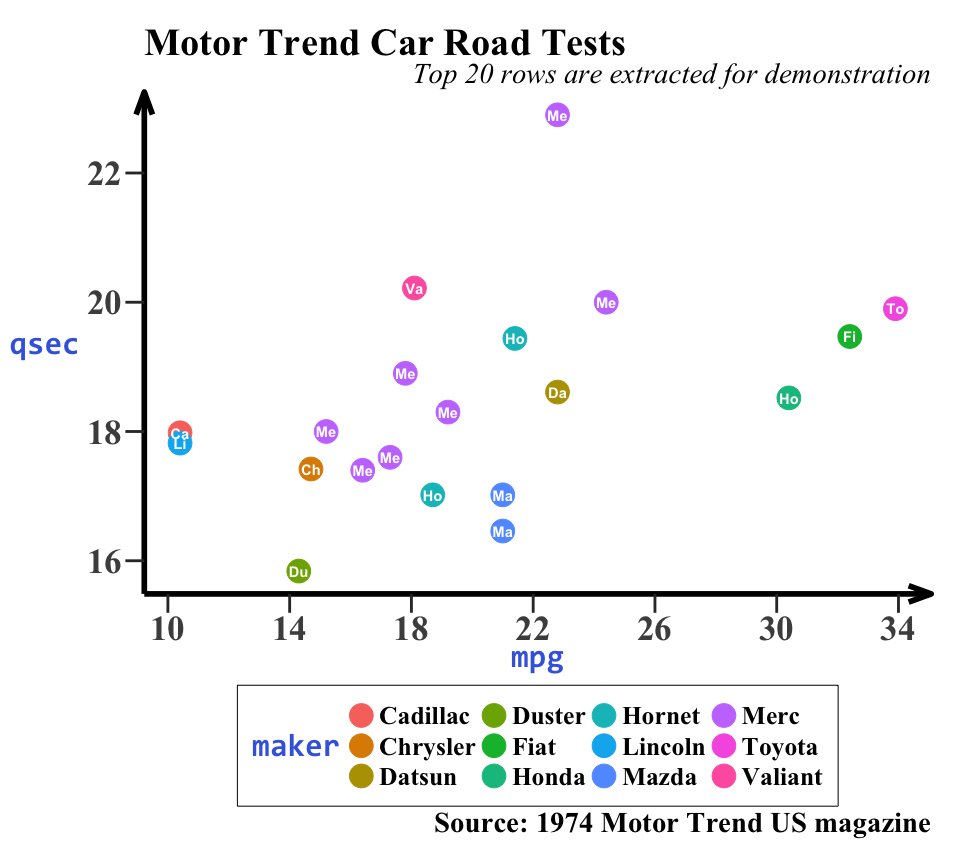
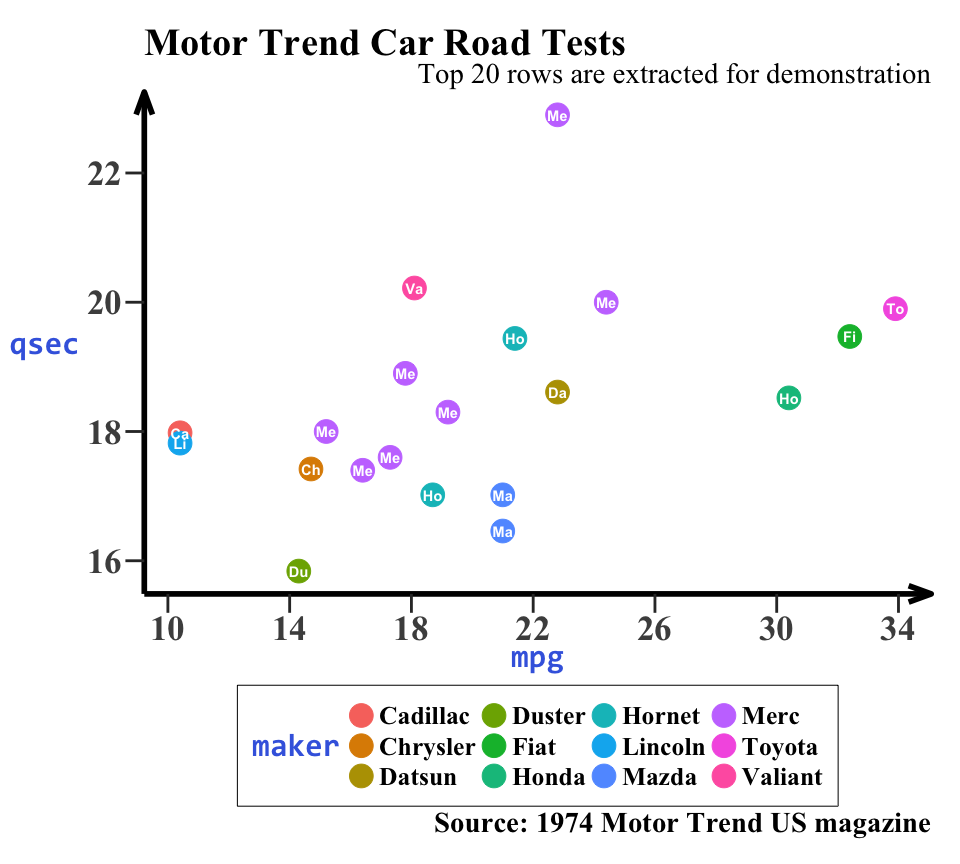
fix error message (too low threshold)

Changed region(s): [[0.4375, 0.0625, 0.9688, 0.0938]]

diff --git a/README.md b/README.md
@@ -101,15 +101,15 @@ gg +
        lgd.box.bg(c="black"),
        lgd.key(fill="white"),
        lgd.position("bottom"),
-       lgd.title(fmly="Consolas", c="royalblue"),         # equally-spaced font
        lgd.txt(z=rel(.8)),
+       lgd.title(fmly="Consolas", c="royalblue"),         # equally-spaced font
        axs.title(fmly="Consolas", c="royalblue"),         # colorize axis titles
        axs.title.y(angle=0, vjust=.5),                    # rotate and centerize y axis label
        axs.txt(z=rel(1.1)),
        axs.line(arrow=arrow(type="open", angle=20), z=2), # 
        axs.tick(z=1),                                     # tick or ticks? It doesn't matter
-       axis.tick.len(.5, "cm"),
-       plt.subttl(f="italic", hjust=1),
+       axs.tick.len(.5, "cm"),
+       plt.subttl(f="plain", hjust=1),
        plt.margin(.3, .3, .3, .1, "inch")                # adjust margins
   )
 ```
@@ -118,24 +118,24 @@ gg +
 
 ``` r
 # If using ggplot2::theme():
-# gg +
-#  theme(text = element_text(face="bold", size=24, family="Times New Roman"), 
-#        panel.background = element_rect(fill="white"),
-#        legend.box.margin = margin(.2, .2, .2, .2,"cm"), 
-#        legend.box.background = element_rect(colour="black"), 
-#        legend.key = element_rect(fill="white"), 
-#        legend.position = ("bottom"), 
-#        legend.title = element_text(family="Consolas", colour="royalblue"), 
-#        legend.text = element_text(size=rel(.8)), 
-#        axis.title = element_text(family="Consolas", colour="royalblue"), 
-#        axis.title.y = element_text(angle=0, vjust=0.5), 
-#        axis.text = element_text(size=rel(1.1)), 
-#        axis.line = element_line(arrow=arrow(type="open", angle=20), size=2), 
-#        axis.ticks = element_line(size=1), 
-#        axis.ticks.length = unit(.5,"cm"), 
-#        plot.subtitle = element_text(face="italic", hjust=1), 
-#        plot.margin = margin(.3, .3, .3, .1,"inch")
-#        )
+gg + theme(
+  text = element_text(face="bold", size=24, family="Times New Roman"),
+  panel.background = element_rect(fill="white"),
+  legend.box.margin = margin(0.2,0.2,0.2,0.2,"cm"),
+  legend.box.background = element_rect(colour="black"),
+  legend.key = element_rect(fill="white"),
+  legend.position = "bottom",
+  legend.text = element_text(size=rel(0.8)),
+  legend.title = element_text(family="Consolas", colour="royalblue"),
+  axis.title = element_text(family="Consolas", colour="royalblue"),
+  axis.title.y = element_text(angle=0, vjust=0.5),
+  axis.text = element_text(size=rel(1.1)),
+  axis.line = element_line(arrow=arrow(type="open",angle=20), size=2),
+  axis.ticks = element_line(size=1),
+  axis.ticks.length = grid::unit(0.5,"cm"),
+  plot.subtitle = element_text(face="plain", hjust=1),
+  plot.margin = margin(0.3,0.3,0.3,0.1,"inch")
+  )
 ```
 
 Goals
